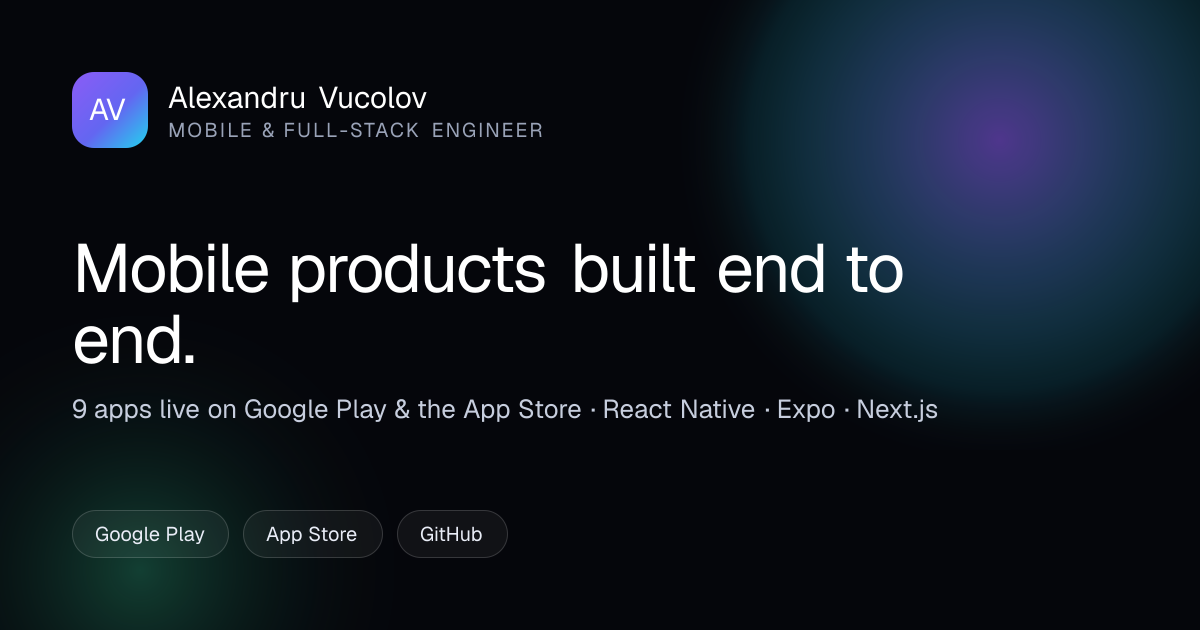
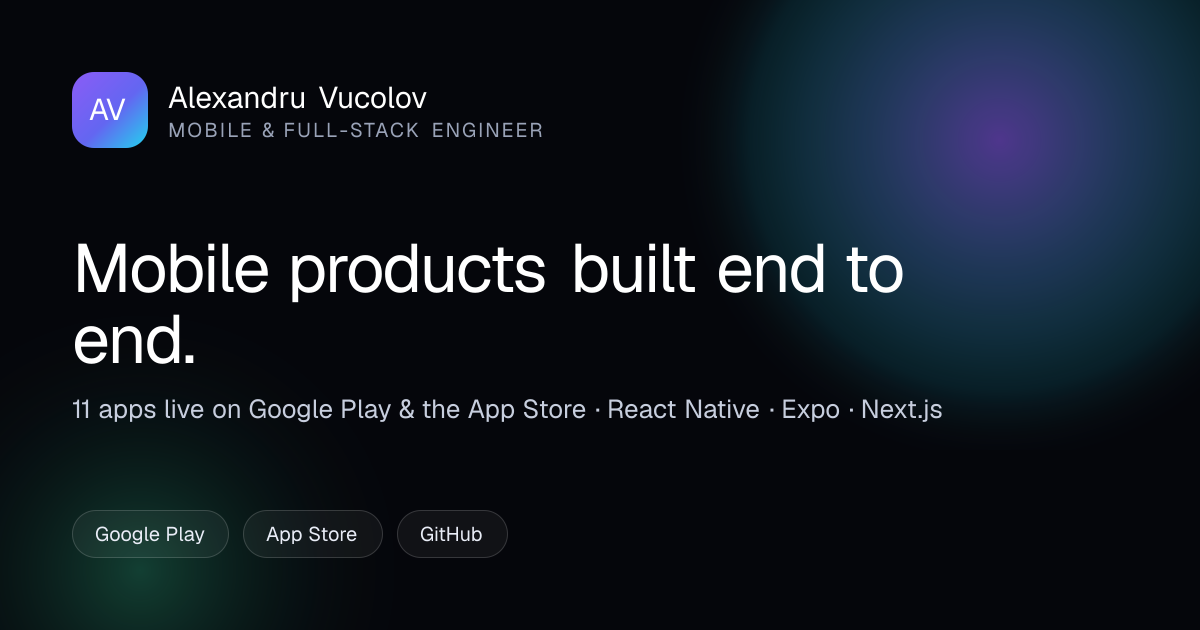
feat: publish WarzoneRunner and Block Rumble as live apps (11 apps, 13 listings)

Changed region(s): [[0.0617, 0.6333, 0.8017, 0.6635]]

diff --git a/src/components/WorkSection.tsx b/src/components/WorkSection.tsx
@@ -18,7 +18,6 @@ export function WorkSection() {
   const [filter, setFilter] = useState<"all" | Category>("all");
 
   const liveApps = useMemo(() => apps.filter((app) => app.status === "live"), []);
-  const inDevelopment = useMemo(() => apps.filter((app) => app.status === "in-development"), []);
 
   const filtered = useMemo(
     () => (filter === "all" ? liveApps : liveApps.filter((app) => app.category === filter)),
@@ -32,7 +31,7 @@ export function WorkSection() {
           <div className="flex flex-col gap-8 lg:flex-row lg:items-end lg:justify-between">
             <SectionHeading
               eyebrow="Selected work"
-              title="Nine live apps across Google Play and the App Store."
+              title="Eleven live apps across Google Play and the App Store."
               description="Consumer games, AI assistants, utilities and a two-sided marketplace — all designed, engineered and published by me. Every listing below links straight to the store."
             />
             <div className="flex shrink-0 items-center gap-3 rounded-2xl border border-white/10 bg-white/[0.03] px-4 py-3">
@@ -48,7 +47,7 @@ export function WorkSection() {
                 ))}
               </div>
               <div className="leading-tight">
-                <p className="text-[0.8rem] font-semibold text-white">11 store listings</p>
+                <p className="text-[0.8rem] font-semibold text-white">13 store listings</p>
                 <p className="text-[0.68rem] text-ink-400">Android &amp; iOS</p>
               </div>
             </div>
@@ -108,44 +107,6 @@ export function WorkSection() {
             Nothing in this category yet — check back soon.
           </p>
         ) : null}
-
-        <Reveal delay={120}>
-          <div className="mt-12 rounded-3xl border border-white/10 bg-white/[0.02] p-5 sm:p-6">
-            <div className="flex flex-wrap items-center justify-between gap-3">
-              <div>
-                <p className="text-[0.68rem] tracking-[0.16em] text-ink-400 uppercase">
-                  In the lab
-                </p>
-                <h3 className="mt-1 text-lg font-semibold text-white">Currently in development</h3>
-              </div>
-              <span className="chip">Prototype builds</span>
-            </div>
-
-            <div className="mt-5 grid gap-3 sm:grid-cols-2">
-              {inDevelopment.map((app) => (
-                <div
-                  key={app.slug}
-                  className="flex items-start gap-3 rounded-2xl border border-white/10 bg-ink-950/40 p-4"
-                >
-                  <AppGlyph glyph={app.glyph} accent={app.accent} size={40} />
-                  <div className="min-w-0">
-                    <p className="text-[0.9rem] font-semibold text-white">{app.name}</p>
-                    <p className="mt-0.5 text-[0.78rem] leading-relaxed text-ink-400">
-                      {app.tagline}
-                    </p>
-                    <div className="mt-2 flex flex-wrap gap-1.5">
-                      {app.tech.slice(0, 3).map((tech) => (
-                        <span key={tech} className="chip text-[0.62rem]">
-                          {tech}
-                        </span>
-                      ))}
-                    </div>
-                  </div>
-                </div>
-              ))}
-            </div>
-          </div>
-        </Reveal>
       </div>
     </section>
   );

diff --git a/src/data/apps.ts b/src/data/apps.ts
@@ -273,39 +273,48 @@ export const apps: AppEntry[] = [
   {
     slug: "warzone-runner",
     name: "Warzone Runner",
-    tagline: "A Skia-rendered endless runner (in development).",
+    storeTitle: "WarzoneRunner: Military",
+    tagline: "A military-themed runner rendered on a Skia canvas.",
     description:
-      "A side-scrolling runner built on React Native Skia and a custom game loop, with parallax environments, gesture-driven jumps and a scoring system designed for short sessions.",
+      "A side-scrolling military runner built on React Native Skia with a custom game loop: parallax warzones, gesture-driven controls and a scoring curve tuned for short, repeatable sessions. Published on Google Play.",
     category: "games",
     platforms: ["android"],
-    status: "in-development",
-    links: {},
-    bundleIds: ["com.lumi.warzonerunner"],
+    status: "live",
+    links: { play: `${PLAY}com.AtechEngineeringSolutions.WarzoneRunner` },
+    bundleIds: ["com.AtechEngineeringSolutions.WarzoneRunner", "com.lumi.warzonerunner"],
     tech: ["React Native Skia", "react-native-game-engine", "Reanimated", "expo-av"],
-    highlights: ["GPU-accelerated Skia canvas", "Custom 60 fps game loop", "Parallax world layers"],
+    highlights: [
+      "GPU-accelerated Skia rendering",
+      "Custom 60 fps game loop",
+      "Parallax world layers",
+    ],
     accent: ["#ef4444", "#fb923c"],
     glyph: "runner",
   },
   {
     slug: "block-rumble",
     name: "Block Rumble",
-    tagline: "A physics-driven block battle (in development).",
+    storeTitle: "Block Rumble!",
+    tagline: "A physics-driven block battle built in Unity.",
     description:
-      "A Unity prototype exploring physics-based block combat, currently in pre-release while the core loop and ad integration are tuned before store submission.",
+      "A fast arcade battle where physics decides the outcome. Built in Unity with the Google Mobile Ads stack wired in for the free-to-play loop, and published on Google Play.",
     category: "games",
     platforms: ["android"],
-    status: "in-development",
-    links: {},
-    bundleIds: [],
+    status: "live",
+    links: { play: `${PLAY}com.atechengineeringsolutions.blockrumble` },
+    bundleIds: ["com.atechengineeringsolutions.blockrumble"],
     tech: ["Unity", "C#", "Google Mobile Ads"],
-    highlights: ["Physics-based combat loop", "Unity to mobile build pipeline"],
+    highlights: [
+      "Physics-based combat loop",
+      "Ad-supported free-to-play release",
+      "Unity mobile build pipeline",
+    ],
     accent: ["#6366f1", "#22d3ee"],
     glyph: "cubes",
   },
 ];
 
 export const liveApps = apps.filter((app) => app.status === "live");
-export const inDevelopmentApps = apps.filter((app) => app.status === "in-development");
 
 export const appFilters: { id: "all" | Category; label: string }[] = [
   { id: "all", label: "All work" },

diff --git a/src/data/site.ts b/src/data/site.ts
@@ -7,7 +7,7 @@ export const site = {
   shortBio:
     "I design, build and ship mobile products end-to-end — from the first wireframe to the store release.",
   intro:
-    "Independent app developer and founder of Atech Engineering Solutions. I build production React Native / Expo and Next.js products: games, AI apps, marketplaces and business tools — nine of them live on Google Play and the App Store.",
+    "Independent app developer and founder of Atech Engineering Solutions. I build production React Native / Expo and Next.js products: games, AI apps, marketplaces and business tools — eleven of them live on Google Play and the App Store.",
   location: "Iași, Romania",
   timezone: "EET (UTC+2)",
   email: "sales@atech-tools.com",
@@ -40,8 +40,8 @@ export const navigation = [
 ] as const;
 
 export const stats = [
-  { value: "9", label: "Apps live in stores" },
-  { value: "11", label: "Store listings shipped" },
+  { value: "11", label: "Apps live in stores" },
+  { value: "13", label: "Store listings shipped" },
   { value: "29", label: "Repositories built" },
   { value: "15+", label: "Years of engineering roots" },
 ] as const;

diff --git a/src/components/Hero.tsx b/src/components/Hero.tsx
@@ -62,7 +62,7 @@ export function Hero() {
             <div className="mt-10 flex flex-wrap items-center gap-x-6 gap-y-3 text-[0.82rem] text-ink-400">
               <span className="inline-flex items-center gap-2">
                 <Check className="h-4 w-4 text-emerald-400" />
-                9 apps live on Google Play &amp; the App Store
+                11 apps live on Google Play &amp; the App Store
               </span>
               <span className="inline-flex items-center gap-2">
                 <Sparkle className="h-4 w-4 text-cyan-glow" />

diff --git a/src/app/layout.tsx b/src/app/layout.tsx
@@ -19,7 +19,7 @@ const sora = Sora({
 });
 
 const description =
-  "Alexandru Vucolov — mobile and full-stack engineer, founder of Atech Engineering Solutions. Nine apps live on Google Play and the App Store, built with React Native, Expo and Next.js.";
+  "Alexandru Vucolov — mobile and full-stack engineer, founder of Atech Engineering Solutions. Eleven apps live on Google Play and the App Store, built with React Native, Expo and Next.js.";
 
 export const metadata: Metadata = {
   metadataBase: new URL(site.url),

diff --git a/src/components/HeroDevice.tsx b/src/components/HeroDevice.tsx
@@ -141,7 +141,7 @@ export function HeroDevice() {
         <span className="grid h-6 w-6 place-items-center rounded-full bg-emerald-400/15">
           <Sparkle className="h-3.5 w-3.5 text-emerald-400" />
         </span>
-        9 apps shipped
+        11 apps shipped
       </div>
     </div>
   );

diff --git a/README.md b/README.md
@@ -9,8 +9,8 @@ Professional portfolio for **Alexandru Vucolov**, mobile & full-stack engineer a
 ## What's inside
 
 - **Hero** — positioning, availability, headline metrics and a device mock-up.
-- **Work** — 9 live store apps with category filters, tech tags, feature highlights and direct
-  Google Play / App Store links, plus an "in the lab" strip for unreleased prototypes.
+- **Work** — 11 live store apps with category filters, tech tags, feature highlights and direct
+  Google Play / App Store links.
 - **Expertise** — what the delivery chain covers (product, native, billing, store compliance).
 - **Toolkit** — the production stack: React Native, Expo SDK 54, Reanimated, Firebase, Supabase,
   Stripe, RevenueCat, Mapbox, VisionCamera, Skia, AdMob, EAS and GitHub Actions.
@@ -31,6 +31,8 @@ Professional portfolio for **Alexandru Vucolov**, mobile & full-stack engineer a
 | Lumi QR Scanner | Android | Utilities | `com.lumi.qrscanner` |
 | Lumi Snack | Android | Games | `com.lumisnack.app` |
 | Atech Tools | Android + iOS | Business | `com.atechtools.catalog` / `com.atech.atechengineeringsolutions` |
+| WarzoneRunner | Android | Games | `com.AtechEngineeringSolutions.WarzoneRunner` |
+| Block Rumble! | Android | Games | `com.atechengineeringsolutions.blockrumble` |
 
 Store profiles: [Google Play — Atech Engineering Solutions](https://play.google.com/store/search?q=Atech%20Engineering%20Solutions&c=apps) ·
 [App Store — Alexandru Vucolov](https://apps.apple.com/us/developer/alexandru-vucolov/id1836241780)
